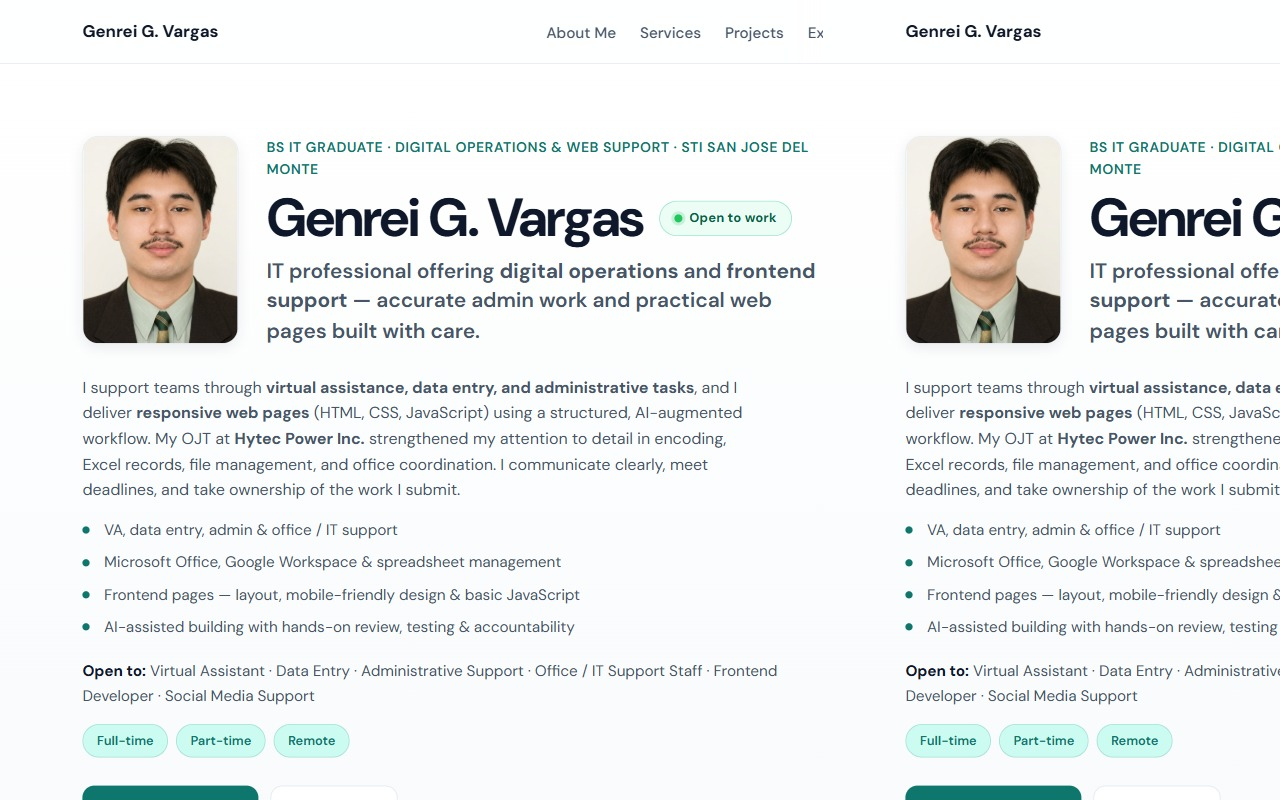
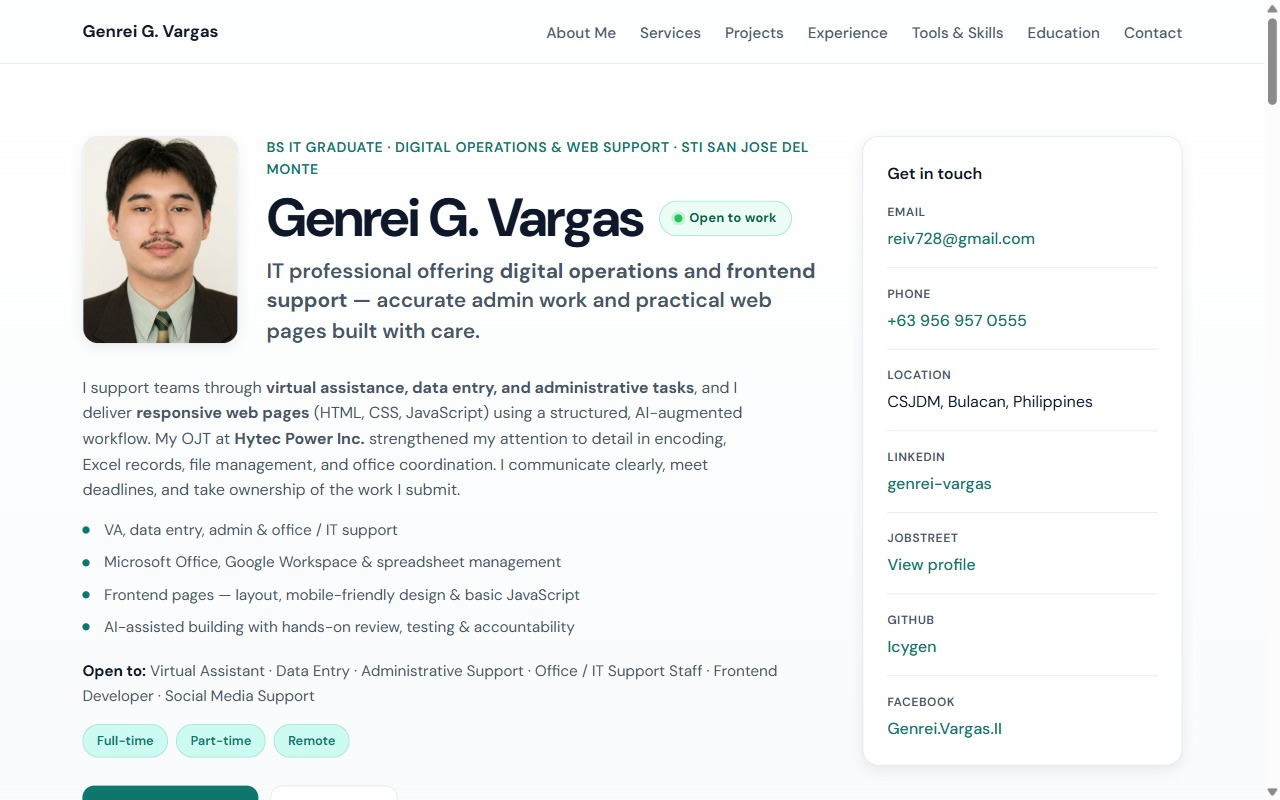
Refresh project preview screenshots and improve card image cropping.

diff --git a/index.html b/index.html
@@ -381,7 +381,7 @@
           <div class="projects-grid reveal">
             <article class="project-card">
               <a
-                class="project-shot"
+                class="project-shot project-shot--oak"
                 href="https://oakstreetstudio.netlify.app/"
                 target="_blank"
                 rel="noopener noreferrer"
@@ -427,7 +427,7 @@
 
             <article class="project-card">
               <a
-                class="project-shot"
+                class="project-shot project-shot--portfolio"
                 href="https://icygen.github.io/WebPortfolio/"
                 target="_blank"
                 rel="noopener noreferrer"

diff --git a/css/style.css b/css/style.css
@@ -521,6 +521,14 @@ a:hover {
   transition: transform 0.35s ease;
 }
 
+.project-shot--oak img {
+  object-position: 42% top;
+}
+
+.project-shot--portfolio img {
+  object-position: top center;
+}
+
 @media (prefers-reduced-motion: no-preference) {
   .project-shot:hover img {
     transform: scale(1.03);
